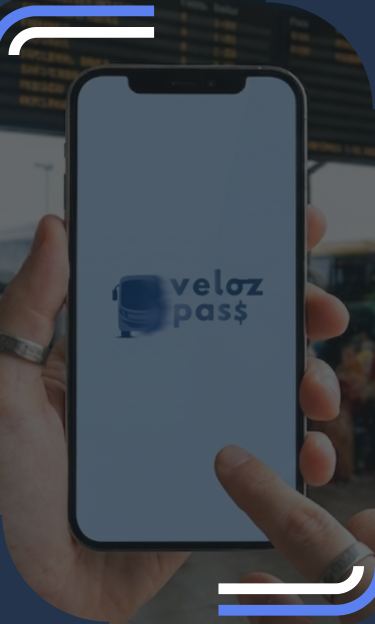
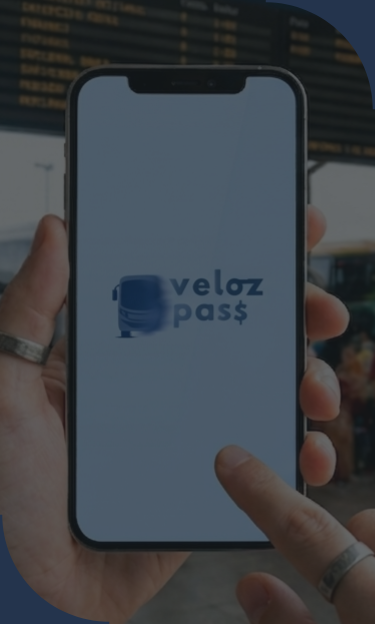
Fixing and adjusting media queries

Changed region(s): [[0.5867, 0.883, 1.0, 1.0], [0.0, 0.0, 0.4107, 0.0913]]

diff --git a/SGDB/public/css/style2.css b/SGDB/public/css/style2.css
@@ -328,6 +328,8 @@ span {
     border-radius: 25px;
     text-decoration: none;
     font-size: .85rem;
+    border: 2px solid transparent;
+    transition: all 0.3s ease;
 }
 
 .btn-carteira:hover,
@@ -449,7 +451,7 @@ span {
 }
 
 /* Media Queries */
-@media (max-width: 1200px) {
+@media (max-width: 1440px) {
     .main-content {
         display: flex;
         flex-direction: column;
@@ -458,8 +460,17 @@ span {
         min-height: auto;
     }
 
+    .register-id-container {
+        margin-top: 10px;
+    }
+
+    .welcome-text{
+        margin-top: 10px;
+        margin-bottom: 10px;
+    }
+
     .card-container {
-        margin-bottom: 30px;
+        margin-top: 40px;
         padding: 30px;
     }
 
@@ -502,7 +513,6 @@ span {
         justify-content: flex-start;
         flex: 1;
         padding-top: 40px;
-        padding-bottom: 0;
     }
 
     .welcome-text {
@@ -516,10 +526,23 @@ span {
         padding: 35px;
     }
 
+    .mint-replay {
+        position: relative !important;
+        top: 0;
+        left: 280px;
+        margin: 20px auto 20px 250px !important;
+        width: auto;
+        min-width: 120px;
+        height: auto !important;
+        padding: 12px 24px !important;
+        display: inline-block !important;
+        box-sizing: border-box;
+    }
+
     .rodapé {
         margin-top: 0;
         padding-top: 10px;
-        padding-bottom: 35px;
+        padding-bottom: 50px;
     }
 }
 
@@ -553,25 +576,69 @@ span {
         text-align: center;
     }
 
+    .main-content {
+        height: auto !important;
+        display: flex;
+        flex-direction: column;
+    }
+
     .card-container {
         grid-template-columns: 1fr;
         padding: 20px;
     }
+
+    .mint-replay {
+        position: static !important;
+        display: block !important;
+        margin: 10px auto;
+        width: fit-content;
+        bottom: unset;
+        right: unset;
+        left: unset;
+    }
 }
 
-@media (max-width: 600px) and (orientation: landscape) {
-    .header-actions {
-        display: flex;
-        align-items: center;
-        gap: 12px;
+@media (max-height: 500px) and (orientation: landscape) {
+    .cabeçalho {
+        height: 70px;
     }
 
     .logotipo img {
-        height: 32px;
+        height: 40px;
+    }
+
+    .main-content {
+        padding-top: 10px;
+        padding-bottom: 25px;
+    }
+
+    .register-id-container {
+        margin-top: 20px;
+    }
+
+    .card-container {
+        display: grid;
+        grid-template-columns: 1fr 1fr;
+        gap: 10px;
+        width: 95%;
+        margin-bottom: 0px;
+    }
+
+    .carteira-valor {
+        font-size: 1rem;
+    }
+
+    .mint-replay {
+        position: relative !important;
+        top: 20px;
+        left: 250px !important;
+        z-index: 9999;
+        transform: scale(0.8);
+        position: -webkit-fixed;
     }
 
     .rodapé {
-        margin-left: 0;
-        padding: 15px;
+        padding: 20px;
+        font-size: 0.75rem;
     }
 }

diff --git a/SGDB/public/css/style3.css b/SGDB/public/css/style3.css
@@ -347,28 +347,32 @@ span {
 /* Media Queries */
 @media (max-width: 480px) and (orientation: portrait) {
     .filtros-container {
-        flex-direction: row;
-        flex-wrap: nowrap;
-        gap: 12px;
-        margin-bottom: 15px;
+        display: flex;
+        flex-direction: column; 
+        gap: 15px; 
+        margin-bottom: 20px;
         padding: 10px 0;
-        align-items: flex-start;
+        width: 100%;
     }
 
     .filtro-item {
-        flex: 1 1 0;
-        min-width: 0;
+        width: 100%; 
+        display: flex;
+        flex-direction: column;
         gap: 6px;
+        position: relative;
     }
 
     .filtro-select {
-        padding: 10px 30px 10px 10px;
-        font-size: 0.85rem;
+        width: 100%;
+        padding: 12px 35px 12px 12px;
+        font-size: 0.9rem;
     }
 
     .select-icon {
-        top: 30px;
-        right: 10px;
+        position: absolute;
+        top: 38px;
+        right: 15px;
     }
 }
 

diff --git a/SGDB/public/css/style4.css b/SGDB/public/css/style4.css
@@ -957,7 +957,12 @@ td.table-bold {
         font-size: 1.8rem;
     }
 
-    .card-valor,
+    .card-valor {
+        width: 60%;
+        margin-left: auto;
+        margin-right: auto;
+    }
+
     .btn-inserir-credito {
         width: 90%;
         margin-left: auto;
@@ -971,6 +976,7 @@ td.table-bold {
 
     .filtro-item .select-icon {
         margin-top: 4px;
+        top: 40px;
     }
 
     .filtros-container {
@@ -1041,5 +1047,10 @@ td.table-bold {
         flex-wrap: wrap;
         gap: 20px;
         justify-content: flex-start;
+    }
+
+    .filtro-item .select-icon {
+        margin-top: 4px;
+        top: 40px;
     }
 }

diff --git a/SGDB/public/css/style.css b/SGDB/public/css/style.css
@@ -650,9 +650,6 @@ body {
 
 @media (max-width: 768px) {
     .background-container {
-        min-height: 100vh;
-        min-height: 100svh;
-        min-height: 100dvh;
         display: flex;
         flex-direction: column;
     }
@@ -682,10 +679,6 @@ body {
     }
 
     .right {
-        /* prevent absolute layer from overflowing/cropping on mobile */
-        position: relative;
-        inset: auto;
-        width: 100%;
         background-image: url("background/768x1024.webp");
         background-size: cover;
         background-position: center;
@@ -727,6 +720,10 @@ body {
 
     .right {
         background-image: url("background/375x667.webp");
+        background-size: cover;
+        background-position: center;
+        background-repeat: no-repeat;
+        min-height: 200px;
     }
 
     .containerLeft {

diff --git a/SGDB/public/css/style6.css b/SGDB/public/css/style6.css
@@ -495,6 +495,11 @@ body {
         margin-bottom: 10px;
     }
 
+    .carrousel-slide img{
+        max-height: 90%;
+        max-width: 100%;
+    }
+
     .carousel-btn {
         width: 40px;
         height: 40px;